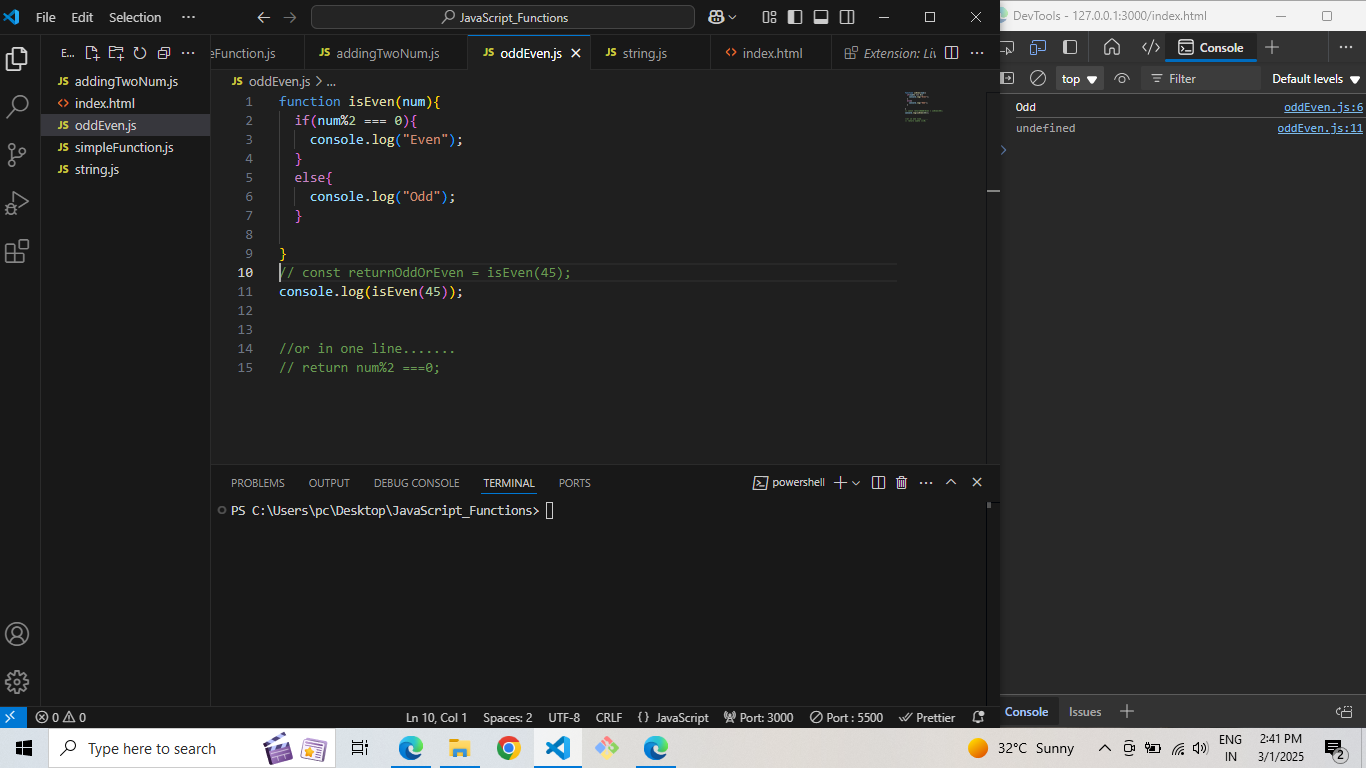
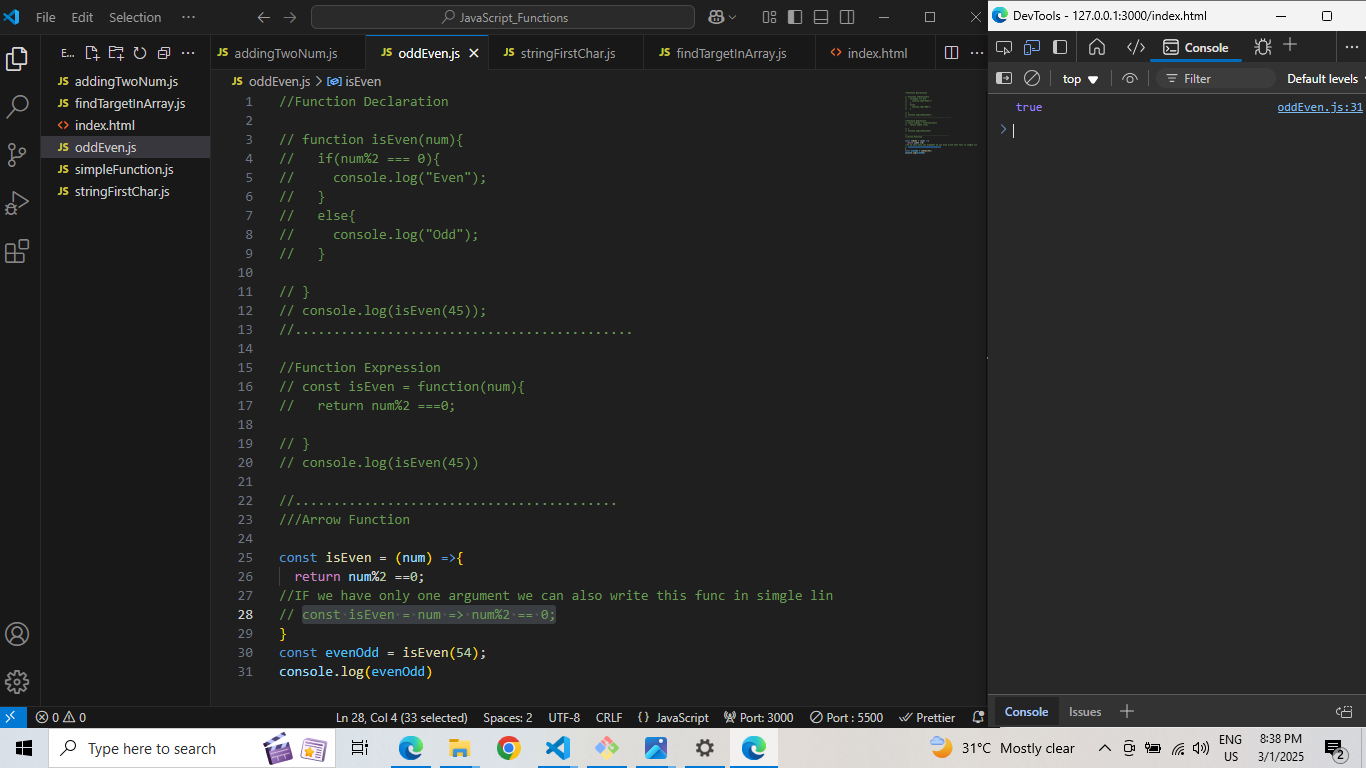
function_day1

diff --git a/findTargetInArray.js b/findTargetInArray.js
@@ -1,12 +1,36 @@
-function findTarget(array, target) {
-  for (i = 0; i < array.length; i++) {
-    if (array[i] === target) {
+//Function Declaration
+// function findTarget(array, target) {
+//   for (i = 0; i < array.length; i++) {
+//     if (array[i] === target) {
+//       return i;
+//     }
+//   }
+//   return -1;
+// }
+// const Array = [3, 4, 6, 9, 67, 40];
+// const ans = findTarget(Array, 40);
+// console.log(ans);
+//............................................................
+//Function Expression
+// const findTarget = function(array, target){
+//   for(i=0; i< array.length; i++){
+//     if(array[i] === target){
+//       return i;
+//     }
+//   }
+//   return -1
+// }
+// const Array = [0,7,8,45,33,66,90];
+// const ans = findTarget(Array,66)
+// console.log(ans)
+//....................................
+//Arrow Function
+const findTarget= (array, target) => {
+  for(i=0; i<array.length; i++){
+    if(array[i] === target){
       return i;
     }
   }
-  return -1;
+  return -1
 }
-
-const Array = [3, 4, 6, 9, 67, 40];
-const ans = findTarget(Array, 40);
-console.log(ans);
+console.log(findTarget([2,4,56,67,90],1))

diff --git a/oddEven.js b/oddEven.js
@@ -1,15 +1,31 @@
-function isEven(num){
-  if(num%2 === 0){
-    console.log("Even");
-  }
-  else{
-    console.log("Odd");
-  }
+//Function Declaration
 
+// function isEven(num){
+//   if(num%2 === 0){
+//     console.log("Even");
+//   }
+//   else{
+//     console.log("Odd");
+//   }
+
+// }
+// console.log(isEven(45));
+//............................................
+
+//Function Expression
+// const isEven = function(num){
+//   return num%2 ===0;
+
+// }
+// console.log(isEven(45))
+
+//..........................................
+///Arrow Function
+
+const isEven = (num) =>{
+  return num%2 ==0;
+//IF we have only one argument we can also write this func in simgle lin
+// const isEven = num => num%2 == 0;
 }
-// const returnOddOrEven = isEven(45);
-console.log(isEven(45));
-
-
-//or in one line.......
-// return num%2 ===0;
+const evenOdd = isEven(54);
+console.log(evenOdd)

diff --git a/simpleFunction.js b/simpleFunction.js
@@ -1,10 +1,26 @@
 // Function is a reusable block  of code designed to perform specific task
 
-function singHappyBirthday(){
-  console.log("Happy Birthday To You.......")
+//Function Declaration
+
+// function singHappyBirthday() {
+//   console.log("Happy Birthday To You.......");
+// }
+// singHappyBirthday();
+// singHappyBirthday();
+// singHappyBirthday();
+//..............................................................................
+//Function Expression
+// const singHappyBirthday = function () {
+//   console.log("Happy Birthday To You!!!");
+// };
+
+// singHappyBirthday();
+// ..................................................................
+
+//Arrow Functions 
+
+const singHappyBirthday = () =>{
+  console.log("Happyyyyy Birthdayyyyy Too Yoouuuuu!!!")
 }
 
 singHappyBirthday();
-singHappyBirthday();
-singHappyBirthday();
-

diff --git a/addingTwoNum.js b/addingTwoNum.js
@@ -1,6 +1,29 @@
-function sumOfTwoNum(num1, num2) {
-  return num1 + num2;
-}
+//function Declaration
 
-const result = sumOfTwoNum(10, 90);
-console.log(result);
+// function sumOfTwoNum(num1, num2) {
+//   return num1 + num2;
+// }
+
+// const result = sumOfTwoNum(10, 90);
+// console.log(result);
+
+//........................................
+
+// Function Expression
+
+// const sumOfTwoNum = function(num1, num2){
+//   return num1 + num2;
+//  }
+
+// const sum = sumOfTwoNum(4,8);
+// console.log(sum)
+
+
+// Arrow Function
+
+const sumOfTwoNum = (num1, num2) => {
+  return num1 + num2;
+
+}
+const sum = sumOfTwoNum(8,2);
+console.log(sum)

diff --git a/stringFirstChar.js b/stringFirstChar.js
@@ -1,5 +1,22 @@
-function  firstChar(anystring){
+//Function Declaration
+// function  firstChar(anystring){
+//   return anystring[0];
+// }
+
+// console.log(firstChar("Richa"));
+//.............................................
+//Function Expression
+
+const FirstChar = (anystring) =>{
   return anystring[0];
 }
+const firstchar = FirstChar("ShivShakti");
+console.log(firstchar);
+//..............................................
+//arrow functions
 
-console.log(firstChar("Richa"));
+// const firstChar = (anystring) =>{
+//   return anystring[0]
+
+// }
+// console.log(firstChar("Riicchaaa"))

diff --git a/index.html b/index.html
@@ -6,6 +6,10 @@
   <title>JavaScrpit_Functions</title>
 </head>
 <body>
+  <!-- <script src="simpleFunction.js"></script> 
+  <script src="stringFirstChar.js"></script>
+  <script src="addingTwoNum.js"></script> -->
+  <!-- <script src="oddEven.js"></script> -->
   <script src="findTargetInArray.js"></script>
 </body>
 </html>
